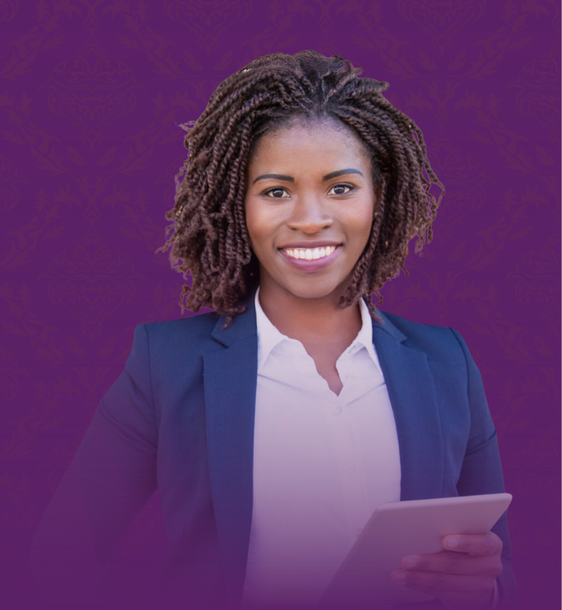
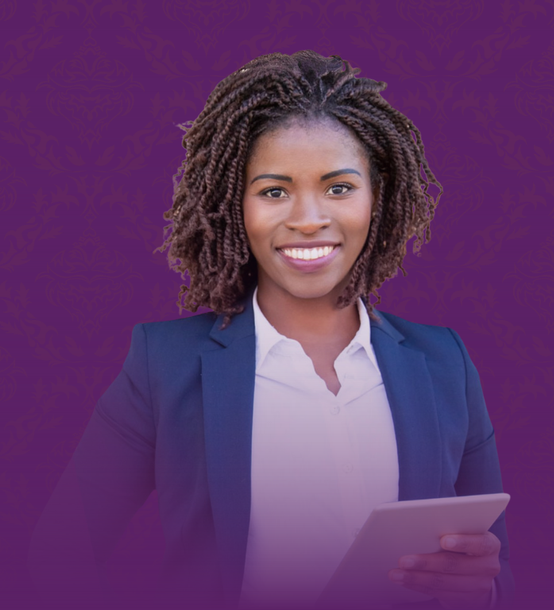
new page

diff --git a/app/src/components/newPage/newpage.style.js b/app/src/components/newPage/newpage.style.js
@@ -82,8 +82,148 @@ const Warpper = styled.div`
   /* new landing page banner  */
   .new-banner {
       background-image: url(${BannerImg});
+      background-repeat: no-repeat;
+      background-size: cover;
+      display: flex;
+      color: #fff;
+      align-items: center;
+      justify-content: space-between;
+      margin-top: -26px;
+      @media (max-width: 767px) {
+        display: block;
+        text-align: center;
+      }
+  }
+  .cnt-sec {
+    margin-left: 100px;
+    @media (max-width: 991px) {
+      margin-left: 30px;
+    }
+    @media (max-width: 767px) {
+      margin-left: 0px;
+      text-align: center;
+    }
+  }
+  .cnt-sec .welcom {
+    font-size: 90px;
+    font-weight: 400;
+    font-family: "Open Sans", serif;
+    line-height: 100px;
+    margin-bottom: 13px;
+    @media (max-width: 1450px) {
+      font-size: 50px;
+       line-height: 60px;
+    }
+    @media (max-width: 991px) {
+       font-size: 35px;
+       line-height: 45px;
+    }
+    @media (max-width: 767px) {
+        padding-top: 20px;
+        font-size: 60px;
+        line-height: 75px;
+    }
+    @media (max-width: 550px) {
+      font-size: 36px;
+      line-height: 47px;
+    }
+  }
+  .cnt-sec .mbr-nam {
+    font-family: "Open Sans", serif;
+    font-size: 90px;
+    font-weight: 700;
+    line-height: 100px;
+    margin-bottom: 35px;
+    @media (max-width: 1450px) {
+      font-size: 50px;
+       line-height: 60px;
+    }
+    @media (max-width: 991px) {
+       font-size: 35px;
+       line-height: 45px;
+    }
+    @media (max-width: 767px) {
+        font-size: 60px;
+        line-height: 75px;
+    }
+    @media (max-width: 550px) {
+      font-size: 36px;
+      line-height: 47px;
+    }
+  }
+  .cnt-sec .msg {
+    font-family: "Poppins", sans-serif;
+    font-size: 36px;
+    font-weight: 400;
+    letter-spacing: 1px;
+    @media (max-width: 1450px) {
+      font-size: 26px;
+    }
+    @media (max-width: 991px) {
+       font-size: 25px;
+    }
+    @media (max-width: 767px) {
+      font-size: 30px;
+    }
+    @media (max-width: 550px) {
+      font-size: 25px;
+    }
+  }
+  
+  .img-sec {
+    @media (max-width: 1450px) {
+      width: 45%;
+      margin: 0 auto;
+    }
+    @media (max-width: 991px) {
+      width: 50%;
+      margin: 0 auto;
+    }
   }
 
+  .what-do {
+    padding: 60px 0px;
+    position: relative;
+  }
+  .what-do::after{
+    position: absolute;
+    content: "";
+    width: 80%;
+    background: #A47200;
+    height: 1px;
+    top: 110px;
+    z-index: -2;
+    right: 0;
+    @media (max-width: 991px) {
+      top: 96px;
+    }
+    @media (max-width: 650px) {
+      top: 83px;
+    }
+    @media (max-width: 420px) {
+      top: 77px;
+    }
+  }
+  .what-do .do-head {
+    font-family: "Open Sans", serif;
+    font-size: 64px;
+    font-weight: 400;
+    color: #5B2166;    
+    background-color: #fff;
+    display: inline-block;
+    padding-right: 30px;
+    @media (max-width: 991px) {
+      font-size: 45px;
+    }
+    @media (max-width: 650px) {
+      font-size: 30px;
+    }
+    @media (max-width: 420px) {
+      font-size: 22px;
+    }
+  }
+
+ 
 `;
 
 export default Warpper;

diff --git a/app/src/components/common/NewBanner.jsx b/app/src/components/common/NewBanner.jsx
@@ -1,7 +1,6 @@
 import React from 'react'
 import { Link } from 'react-router-dom'
 
-import SiteLogo from '../../assets/images/site-logo.png'
 import BannerImg from '../../assets/images/new-hero.png'
 import { store } from '../../redux/store'
 
@@ -34,10 +33,10 @@ export default function NewBanner() {
         <div className="new-banner">
             <div className="cnt-sec">
                 <div className="welcom">Welcome,</div>
-                <div className="mbr-nam">Member NAme!,</div>
+                <div className="mbr-nam">{store.getState().auth.firstName} {store.getState().auth.lastName}!</div>
                 <div className="msg">We’re glad you’re here!</div>
             </div>
-            <div className="img">
+            <div className="img-sec">
                 <img src={BannerImg} alt='' />
             </div>
         </div>

diff --git a/app/src/components/newPage/NewPage.jsx b/app/src/components/newPage/NewPage.jsx
@@ -9,6 +9,7 @@ import ClampLines from "react-clamp-lines";
 import TimeAgo from "javascript-time-ago";
 import en from "javascript-time-ago/locale/en";
 import Banner from "../common/NewBanner";
+import WhatYouCanDo from "./WhatYouCanDo";
 import HomeNational from "./HomeNational";
 TimeAgo.addLocale(en);
 
@@ -360,6 +361,8 @@ const NewPage = (props) => {
             {/* <LoadingOverlay active={loader} spinner={<Spinner />}> */}
             <div className="site-spacing- ptb-50-">
                 <Banner />
+
+                <WhatYouCanDo />
 
                 <TabContent activeTab={activeTab}>
                     <div className="home-tab">

diff --git a/app/src/components/newPage/WhatYouCanDo.jsx b/app/src/components/newPage/WhatYouCanDo.jsx
@@ -1,0 +1,20 @@
+import React from 'react'
+import { Link } from 'react-router-dom'
+
+import { store } from '../../redux/store'
+
+export default function WhatYouCanDo() {
+    return (
+        <div className="what-do">
+            <div className="container">
+                <div className="do-head">Here's What You Can Do:</div>
+
+                <div className="three-cl-row">
+                    <div className="1-3-itm cursor-pointer">
+
+                    </div>
+                </div>
+            </div>
+        </div>
+    )
+}
